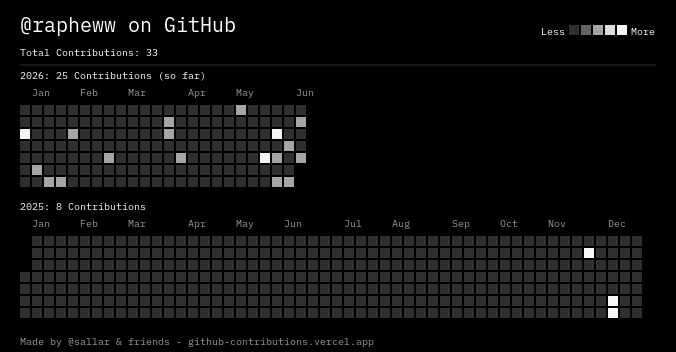
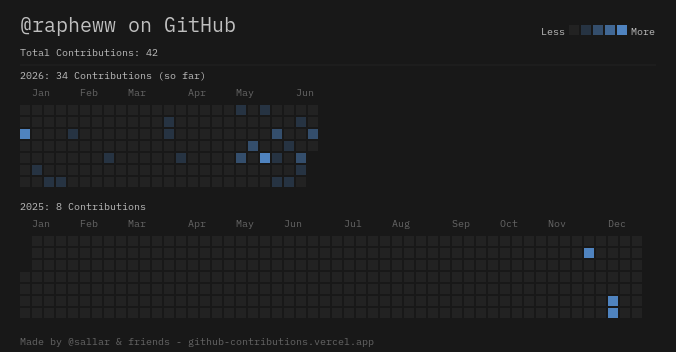
bof

diff --git a/home.css b/home.css
@@ -18,120 +18,58 @@ body {
     padding-top: 30px;
 
     box-sizing: border-box;
+    display: flex;
+    justify-content: center;
+    align-items: center;
 }
 
 .card{
-    display: block;
+    /* border: 1px solid red; */
+    width: 75%;
+    display: flex;
+}
+
+.card div{
+    border: 1px solid #5a90f5;
     border-radius: 3%;
-    backdrop-filter: blur(5px) brightness(1);
-    width: 700px;
-    margin: auto;
-    border: 1px solid #084f85;
-    transition: transform 0.5s;
+    color: #5a90f5;
+    margin: 20px;
+    width: 55%;
 }
 
-.card:hover{
-    transform: scale(1.05);
+.aboutme{
+    text-align: center;
+    padding: 15px;
 }
 
-h1{
-    margin: 30px; 
-}
-.bio{
-    max-width: 700px; 
-    margin: 0 auto 40px auto; 
-    line-height: 1.6;
-}
-ul{
-    list-style-type: none; 
-    padding-left: 0px;
-    text-align: center; 
-    display: block;
-}
-.social{
-    display: inline;
-    margin: auto;
-    width: 10%;
-    transition: transform 0.5s;
+.aboutme h1{
+    background: linear-gradient(to right, #ffffff, #0359f8);
+    background-clip: text;
+    -webkit-background-clip: text;
+    -webkit-text-fill-color: transparent;
 }
 
-.social:hover{
-    transform: scale(1.1);
+.aboutme p{
+    text-align: justify;
 }
 
-.githubcommits{
-    display: inline-block;
-    position: relative;
-    margin: auto;
-    margin-top: 30px;
-    width: 700px;
-    transition: transform 0.5s;
+.commits{
+    text-align: center;
 }
 
-.githubcommits:hover{
-    transform: scale(1.05);
-}
-
-.githubcommit{
+.commits img{
+    width: 95%;
     border-radius: 3%;
-    display: block;
-    margin: auto;
-    width: 100%;
+    border: 1px solid #5a90f5;
 }
 
-@property --angle{
-    syntax: "<angle>";
-    initial-value: 0deg;
-    inherits: false;
+.contact{
+    text-align: center;
 }
 
-.githubcommits::after, .githubcommits::before{
-    content: '';
-    position: absolute;
-    height: 100%;
-    width: 100%;
-    background-image: conic-gradient(from var(--angle), transparent 80%, #74c3ff);
-    top: 50%;
-    left: 50%;
-    translate: -50% -50%;
-    z-index: -1;
-    padding: 3px;
-    border-radius: 3%;
-    animation: 5s spin linear infinite;
-}
-.githubcommits::before{
-    filter: blur(1.5rem);
-    opacity: 0.75;
-}
-
-@keyframes spin{
-    from{
-        --angle: 0deg;
-    }
-    to{
-        --angle: 360deg;
-    }
-}
-
-.projects{
-    display: block;
-    border-radius: 3%;
-    background-color: rgba(211, 211, 211, 0.05);
-    backdrop-filter: blur(5px) brightness(1);
-    width: 700px;
-    margin: auto;
-    margin-top: 30px;
-    margin-bottom: 20px;
-    border: 1px solid #084f85;
-    transition: transform 0.5s;
-}
-
-.projects:hover{
-    transform: scale(1.05);
-}
-
-.zen-dots-regular{
-    font-family: "Zen Dots", sans-serif; 
-    font-weight: 400; 
-    font-style: normal;
+.stack-sans-headline-fonts {
+  font-family: "Stack Sans Headline", sans-serif;
+  font-optical-sizing: auto;
+  font-weight: 20px;
+  font-style: normal;
 }

diff --git a/style.css b/style.css
@@ -1,6 +1,7 @@
 html, body {
     min-height: 100%;
     margin: 0;
+    scroll-behavior: smooth;
 }
 
 body {
@@ -10,17 +11,19 @@ body {
     background-attachment: fixed;
 
     color: #D5D5D5;
-    font-family: 'Zen Dots', sans-serif;
+    font-family: 'Stack Sans Headline', sans-serif;
     text-align: center;
 
     min-height: 100vh;
 
     box-sizing: border-box;
     display: flex;
-    flex-direction: column;
     justify-content: center;
-    align-items: center;
-    gap: 15px;
+}
+
+.intro{
+    margin: 10px;
+    width: 70%;
 }
 
 .intro h1{
@@ -29,40 +32,51 @@ body {
     background-clip: text;
     -webkit-background-clip: text;
     -webkit-text-fill-color: transparent;
-    font-size: 55px;
+    font-size: 60px;
+    margin-bottom: 15px;
     /* border: 1px solid red; */
 }
 
-.card {
-    display: flex;
-    justify-content: center;
-    /* border: 1px solid green; */
-    width: 35%;
+.aboutme{
+    margin-top: 80px;
+    /* border: 1px solid blue; */
+    width: 100%;
+    text-align: center;
+    font-size: 17px;
+    color: #98bbfd;
 }
 
-.card div {
-    /* border: 1px solid red; */
-    width: 34%;
+.aboutme h1{
+    font-size: 40px;
+}
+
+p{
+    margin: auto;
+    margin-top: 2px;
+    width: 40%;
+}
+
+.current{
+    margin-top: 30px;
+    border: 1px solid white;
+    text-align: center;
+    font-size: 17px;
+    color: #98bbfd;
+}
+
+.current img{
     display: flex;
     flex-direction: column;
-    justify-content: center;
-    align-items: center;
+    width: 8%;
 }
 
-.card div img {
-    /* border: 1px solid blue; */
-    width: 40%;
-    height: auto;
-    margin-bottom: auto;
+.current h1{
+    font-size: 40px;
 }
 
-.card div p{
-    /* border: 1px solid purple; */
-    font-size: 20px;
-}
-
-.zen-dots-regular{
-    font-family: "Zen Dots", sans-serif; 
-    font-weight: 400; 
-    font-style: normal;
+.stack-sans-headline-fonts {
+  font-family: "Stack Sans Headline", sans-serif;
+  font-optical-sizing: auto;
+  font-weight: 20px;
+  font-style: normal;
 }

diff --git a/home.html b/home.html
@@ -8,37 +8,25 @@
     
     <link rel="preconnect" href="https://fonts.googleapis.com">
     <link rel="preconnect" href="https://fonts.gstatic.com" crossorigin>
-    <link href="https://fonts.googleapis.com/css2?family=Zen+Dots&display=swap" rel="stylesheet">
+    <link href="https://fonts.googleapis.com/css2?family=Stack+Sans+Headline:wght@200..700&display=swap" rel="stylesheet">
     
 </head>
 <body>
     <div class="card">
-        <h1>Rapheww Portfolio</h1>
-        <p class="bio">I'm a french IT student at 42Paris. I have knowledges in reselling (around 2 years of sneakers reselling) and currently  learning different types of progamming languages</p>
-        <h2>What I'm Learning today</h2>
-        <ul>
-            <li>C</li>
-            <li>C++</li>
-            <li>HTML</li>
-            <li>CSS</li>
-            <li>PYTHON</li>
-        </ul>
-        <h3>My Github contributions</h3>
-        
-        <h3>Find me here ↓</h3>
-        <a href="https://github.com/rapheww"><img class="social" src="github.png" alt="github img link"></a>
-        <a href="https://discordapp.com/users/512338745471795251"><img class="social" src="discord.png" alt="discord img link"></a>
-        <p class="status">This portfolio is currently being created</p>
-    </div>
-    <div class="githubcommits">
-        <img class="githubcommit" src="contributions.png" alt="contributions github">
-    </div>
-    <div class="projects">
-        <h1>42 Projects</h1>
-        <p>eichecjocijes ivhnwcmioewncowen erivnweocnweivnwincewinrv iwn onfrievnecmweo fnerobjn wvnwerovn eovnweonfoeregjv own </p>
-        <p>eichecjocijes ivhnwcmioewncowen erivnweocnweivnwincewinrv iwn onfrievnecmweo fnerobjn wvnwerovn eovnweonfoeregjv own </p>
-        <a href="project.html">My projects</a>
-        <p>eichecjocijes ivhnwcmioewncowen erivnweocnweivnwincewinrv iwn onfrievnecmweo fnerobjn wvnwerovn eovnweonfoeregjv own </p>
+        <div class="aboutme">
+            <h1>ABOUT ME</h1>
+            <p>Hey, my name is Raphael.</p>
+            <p>I'm a French IT student at 42 Paris.</p>
+            <p>I'm learning C and C++ at school 
+                and other programming languages in my free time.
+                
+                <p>Becoding, I'm interested in sneakers and streetwear, and I used to sell limited-edition sneakers for 2 years using automation bots.</p> 
+            </p>
+        </div>
+        <div class="commits">
+            <h1>GITHUB ACTIVITY</h1>
+            <img src="contributions.png" alt="contributions">
+        </div>
     </div>
 </body>
 </html>

diff --git a/index.html b/index.html
@@ -8,24 +8,39 @@
 
     <link rel="preconnect" href="https://fonts.googleapis.com">
     <link rel="preconnect" href="https://fonts.gstatic.com" crossorigin>
-    <link href="https://fonts.googleapis.com/css2?family=Zen+Dots&display=swap" rel="stylesheet">
+    <link href="https://fonts.googleapis.com/css2?family=Stack+Sans+Headline:wght@200..700&display=swap" rel="stylesheet">
 </head>
 <body>
     <div class="intro">
         <h1>Rapheww Portfolio</h1>
-    </div>
-    <div class="card">
-        <div class="me">
-                <a href="home.html"><img id="me" src="github.png" alt="me img link"></a>
-                <p>test</p>
+        <div class="aboutme">
+            <h1>About me</h1>
+            <p>Hey, my name is Raphael.</p>
+            <p>I'm a French IT student at 42 Paris.</p>
+            <p>I'm learning C and C++ at school 
+                and other programming languages in my free time.
+                
+                <p>Beside coding, I'm interested in sneakers and streetwear, and I used to sell limited-edition sneakers for 2 years using automation bots.</p> 
+            </p>
         </div>
-        <div class="learn">
-                <a href="home.html"><img id="me" src="github.png" alt="me img link"></a>
-                <p>test</p>
+        <div class="current">
+            <h1>Current languages</h1>
+            <img src="C.png" alt="c pics"/>
+            <img src="c++.png" alt="c++ pics"/>
         </div>
         <div class="project">
-                <a href="home.html"><img id="me" src="github.png" alt="me img link"></a>
-                <p>test</p>
+            <h1>Projects</h1>
+            <p>eojceifjeiocjesi jseijcseijkvos jgosjoekfoe jisgseiofjosj jgisjfosef oejgsoe jfsfjesogjsodockejo </p>
+        </div>
+        <div class="learn">
+            <h1>Learning</h1>
+            <p>eojceifjeiocjesi jseijcseijkvos jgosjoekfoe jisgseiofjosj jgisjfosef oejgsoe jfsfjesogjsodockejo
+                eojceifjeiocjesi jseijcseijkvos jgosjoekfoe jisgseiofjosj jgisjfosef oejgsoe jfsfjesogjsodockejo
+            eojceifjeiocjesi jseijcseijkvos jgosjoekfoe jisgseiofjosj jgisjfosef oejgsoe jfsfjesogjsodockejo
+        eojceifjeiocjesi jseijcseijkvos jgosjoekfoe jisgseiofjosj jgisjfosef oejgsoe jfsfjesogjsodockejo
+    eojceifjeiocjesi jseijcseijkvos jgosjoekfoe jisgseiofjosj jgisjfosef oejgsoe jfsfjesogjsodockejo
+eojceifjeiocjesi jseijcseijkvos jgosjoekfoe jisgseiofjosj jgisjfosef oejgsoe jfsfjesogjsodockejo
+eojceifjeiocjesi jseijcseijkvos jgosjoekfoe jisgseiofjosj jgisjfosef oejgsoe jfsfjesogjsodockejo </p>
         </div>
     </div>
 </body>